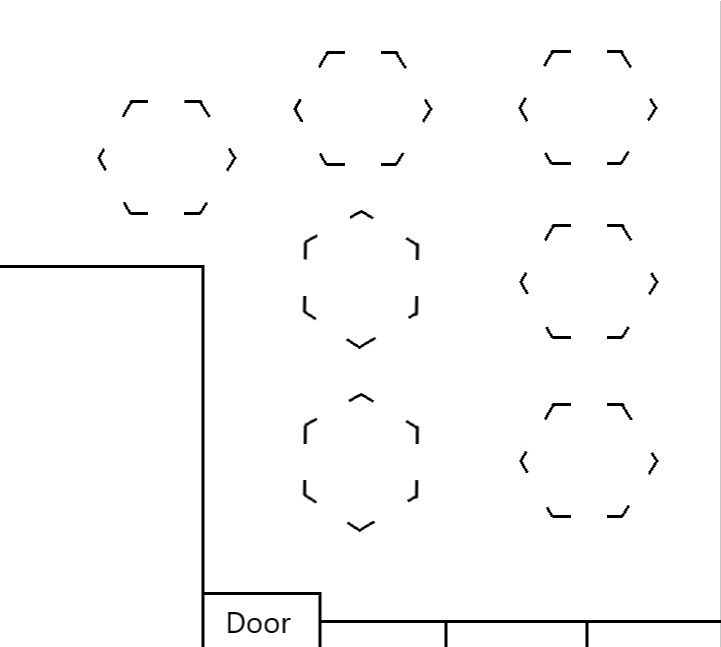
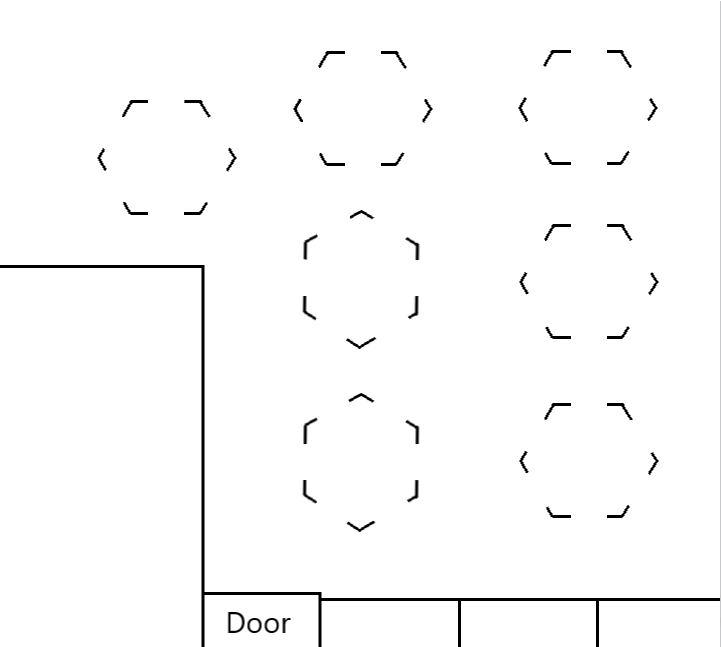
Made changes to the room layout image. Added in extra seats into the layout. Added and changed css content to account for new seats being added in.

Changed region(s): [[0.4577, 0.9274, 1.0, 1.0]]

diff --git a/css/main.css b/css/main.css
@@ -70,6 +70,12 @@
     position: absolute;
 }
 
+#sideTab {
+    margin-left: 465px;
+    margin-top: 545px;
+    position: absolute;
+}
+
 /* positioning the contents of the table (i.e. the div) into the center (i.e. put all the content inside the div into the middle) to then be able to position each seat correctly around the table  */
 .desk .seats{ 
     display: block;
@@ -133,6 +139,18 @@
     transform: rotate(58deg) translate(58px) rotate(85deg);
 }
 
+#side1 {
+    transform: rotate(346.5deg) translate(-130px) rotate(-346.5deg);
+}
+
+#side2 {
+    transform: rotate(63deg) translate(34px) rotate(-63deg);
+}
+
+#side3 {
+    transform: rotate(11.5deg) translate(152px) rotate(-11.5deg);
+}
+
 /* Specifying the width and other properties of the table */
 #studentTab {
     width: 85%;
@@ -160,50 +178,105 @@
     }
 }
 
+@media (max-width: 700px) {
+    .layout {
+        width: 100%;
+    }
+
+    #tableA {
+        margin-left: 301px;
+        margin-top: 412px;
+        position: absolute;
+    }
+    
+    #tableB {
+        margin-left: 527px;
+        margin-top: 412px;
+        position: absolute;
+    }
+    
+    #tableC {
+        margin-left: 301px;
+        margin-top: 228px;
+        position: absolute;
+    }
+    
+    #tableD {
+        margin-left: 527px;
+        margin-top: 232px;
+        position: absolute;
+    }
+    
+    #tableE {
+        margin-left: 302px;
+        margin-top: 58px;
+        position: absolute;
+    }
+    
+    #tableF {
+        margin-left: 527px;
+        margin-top: 58px;
+        position: absolute;
+    }
+    
+    #tableG {
+        margin-left: 104px;
+        margin-top: 108px;
+        position: absolute;
+    }
+
+}
+
 @media (max-width: 400px) {
     .layout {
         width: 100%;
     }
 
     #tableA {
-        margin-left: 259px;
+        margin-left: 287px;
         margin-top: 412px;
         position: absolute;
     }
     
     #tableB {
-        margin-left: 487px;
+        margin-left: 515px;
         margin-top: 412px;
         position: absolute;
     }
     
     #tableC {
-        margin-left: 259px;
+        margin-left: 287px;
         margin-top: 228px;
         position: absolute;
     }
     
     #tableD {
-        margin-left: 487px;
+        margin-left: 515px;
         margin-top: 232px;
         position: absolute;
     }
     
     #tableE {
-        margin-left: 261px;
+        margin-left: 288px;
         margin-top: 58px;
         position: absolute;
     }
     
     #tableF {
-        margin-left: 487px;
+        margin-left: 515px;
         margin-top: 58px;
         position: absolute;
     }
     
     #tableG {
-        margin-left: 62.5px;
+        margin-left: 92px;
         margin-top: 108px;
+        position: absolute;
+    }
+
+    #sideTab {
+        margin-left: 440px;
+        margin-top: 545px;
         position: absolute;
     }
 }

diff --git a/main.php b/main.php
@@ -207,6 +207,17 @@
                     <button type="submit" id="seat6" class="btn btn-outline-success seat" data-toggle="modal" data-target="#myModal" value="G6" onclick="addSeat(this)">6</button>
                 </div>
             </div>
+            <div id="sideTab" class="desk">
+                <div class="seats">
+                    <button type="submit" id="side1" class="btn btn-outline-success seat" data-toggle="modal" data-target="#myModal" value="Side 1" onclick="addSeat(this)">Side 1</button>
+                </div>
+                <div class="seats">
+                    <button type="submit" id="side2" class="btn btn-outline-success seat" data-toggle="modal" data-target="#myModal" value="Side 2" onclick="addSeat(this)">Side 2</button>
+                </div>
+                <div class="seats">
+                    <button type="submit" id="side3" class="btn btn-outline-success seat" data-toggle="modal" data-target="#myModal" value="Side 3" onclick="addSeat(this)">Side 3</button>
+                </div>
+            </div>
         </div>
 
         <div id="studentTab" class="container-fluid table-responsive">
